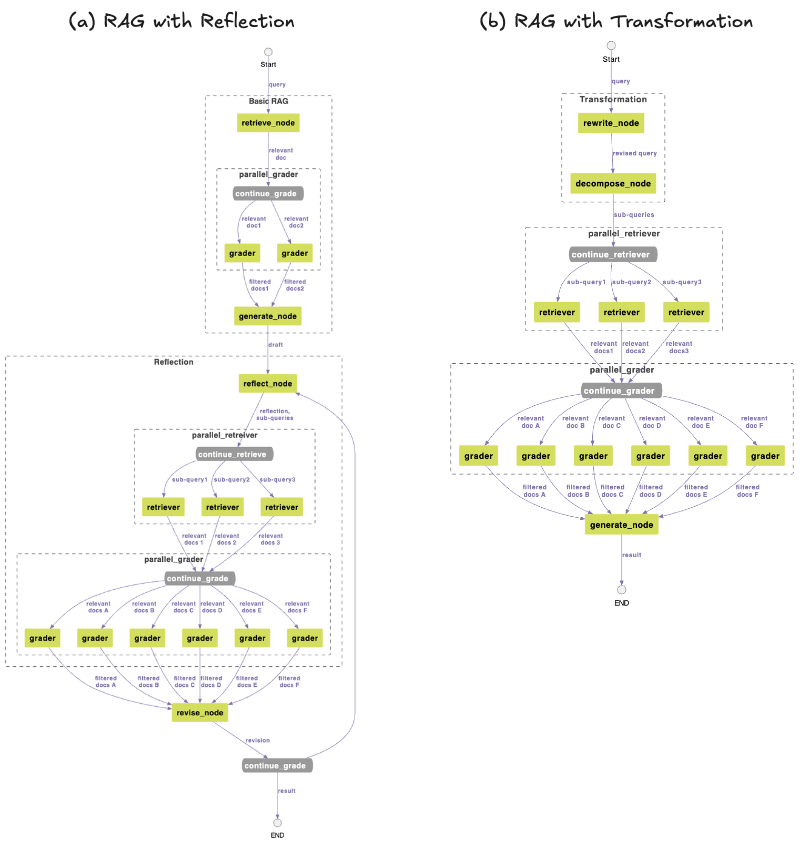
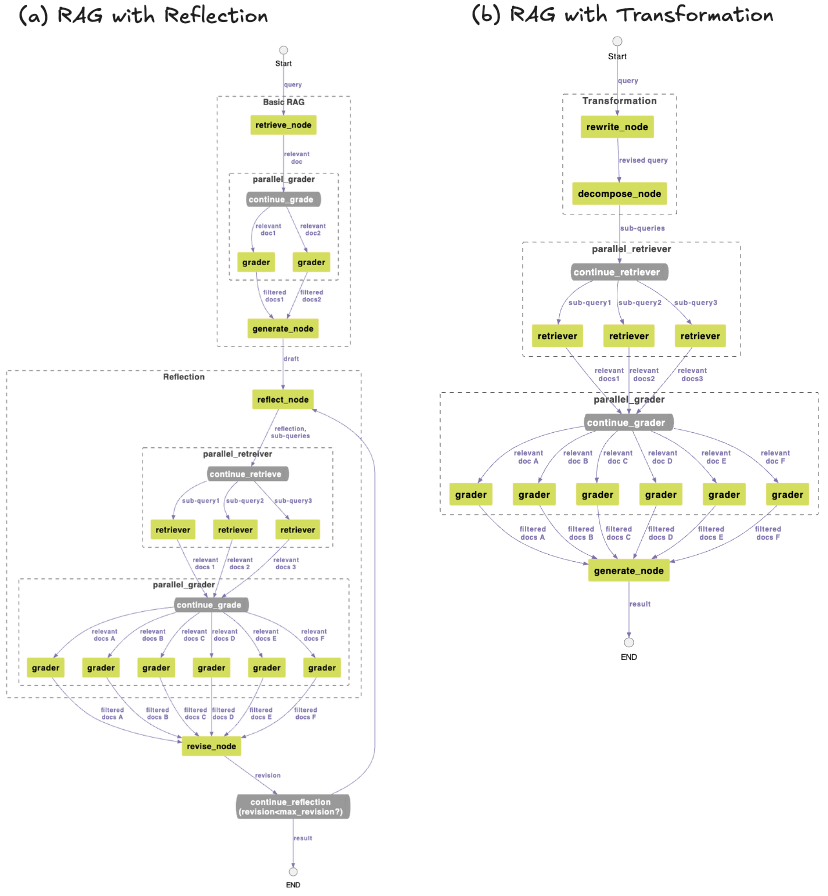
update

diff --git a/lambda-chat-ws/lambda_function.py b/lambda-chat-ws/lambda_function.py
@@ -608,41 +608,7 @@ def grade_document_based_on_relevance(conn, question, doc, models, selected):
         conn.send(None)
     
     conn.close()
-                                    
-def grade_documents_using_parallel_processing(question, documents):
-    global selected_chat
-    
-    filtered_docs = []    
-
-    processes = []
-    parent_connections = []
-    
-    for i, doc in enumerate(documents):
-        #print(f"grading doc[{i}]: {doc.page_content}")        
-        parent_conn, child_conn = Pipe()
-        parent_connections.append(parent_conn)
-            
-        process = Process(target=grade_document_based_on_relevance, args=(child_conn, question, doc, multi_region_models, selected_chat))
-        processes.append(process)
-
-        selected_chat = selected_chat + 1
-        if selected_chat == len(multi_region_models):
-            selected_chat = 0
-    for process in processes:
-        process.start()
-            
-    for parent_conn in parent_connections:
-        relevant_doc = parent_conn.recv()
-
-        if relevant_doc is not None:
-            filtered_docs.append(relevant_doc)
-
-    for process in processes:
-        process.join()
-    
-    #print('filtered_docs: ', filtered_docs)
-    return filtered_docs
-    
+                                        
 def print_doc(i, doc):
     if len(doc.page_content)>=100:
         text = doc.page_content[:100]
@@ -651,44 +617,7 @@ def print_doc(i, doc):
             
     print(f"{i}: {text}, metadata:{doc.metadata}")
     
-def grade_documents(question, documents):
-    print("###### grade_documents ######")
-    
-    filtered_docs = []
-    if multi_region == 'enable':  # parallel processing
-        print("start grading...")
-        filtered_docs = grade_documents_using_parallel_processing(question, documents)
-
-    else:
-        # Score each doc    
-        chat = get_chat()
-        retrieval_grader = get_retrieval_grader(chat)
-        for i, doc in enumerate(documents):
-            if len(doc):
-                print_doc(i, doc)
             
-            score = retrieval_grader.invoke({"question": question, "document": doc.page_content})
-            # print("score: ", score)
-            
-            grade = score.binary_score
-            # print("grade: ", grade)
-            # Document relevant
-            if grade.lower() == "yes":
-                print("---GRADE: DOCUMENT RELEVANT---")
-                filtered_docs.append(doc)
-            # Document not relevant
-            else:
-                print("---GRADE: DOCUMENT NOT RELEVANT---")
-                # We do not include the document in filtered_docs
-                # We set a flag to indicate that we want to run web search
-                continue
-            
-    global reference_docs 
-    reference_docs += filtered_docs    
-    # print('langth of reference_docs: ', len(reference_docs))
-    
-    # print('len(docments): ', len(filtered_docs))    
-    return filtered_docs
 
 class GradeDocuments(BaseModel):
     """Binary score for relevance check on retrieved documents."""
@@ -869,7 +798,8 @@ MAX_REVISIONS = 1
 class State(TypedDict):
     query: str
     draft: str
-    docs: List[str]
+    relevant_docs: List[str]
+    filtered_docs: List[str]
     reflection : List[str]
     sub_queries : List[str]
     revision_number: int
@@ -882,14 +812,53 @@ def retrieve_node(state: State):
     # print(f'q: {query}, RAG: {relevant_docs}')
     print(f'--> query: {query}, length: {len(relevant_docs)}')
     
-    filtered_docs = []
-    if len(relevant_docs):
-        filtered_docs = grade_documents(query, relevant_docs)
-    print('length of filtered_docs (retrieve_node): ', len(filtered_docs))
+    return {
+        "relevant_docs": relevant_docs
+    }
+    
+def parallel_grader(state: State):
+    print("###### parallel_grader ######")
+    query = state['query']
+    relevant_docs = state['relevant_docs']
+    
+    global selected_chat    
+    filtered_docs = []    
+
+    processes = []
+    parent_connections = []
+    
+    for i, doc in enumerate(relevant_docs):
+        #print(f"grading doc[{i}]: {doc.page_content}")        
+        parent_conn, child_conn = Pipe()
+        parent_connections.append(parent_conn)
+            
+        process = Process(target=grade_document_based_on_relevance, args=(child_conn, query, doc, multi_region_models, selected_chat))
+        processes.append(process)
+
+        selected_chat = selected_chat + 1
+        if selected_chat == len(multi_region_models):
+            selected_chat = 0
+    for process in processes:
+        process.start()
+            
+    for parent_conn in parent_connections:
+        relevant_doc = parent_conn.recv()
+
+        if relevant_doc is not None:
+            filtered_docs.append(relevant_doc)
+
+    for process in processes:
+        process.join()    
+    #print('filtered_docs: ', filtered_docs)
+
+    global reference_docs 
+    reference_docs += filtered_docs    
+    # print('langth of reference_docs: ', len(reference_docs))    
+    # print('len(docments): ', len(filtered_docs))    
     
     return {
-        "docs": filtered_docs
-    }
+        "filtered_docs": filtered_docs
+    }    
 
 class RetrieveState(TypedDict):
     sub_query: str
@@ -1232,9 +1201,12 @@ def buildRagWithReflection():
 
     # Add nodes
     workflow.add_node("retrieve_node", retrieve_node)
+    workflow.add_node("parallel_grader", parallel_grader)
     workflow.add_node("generate_node", generate_node)
-    workflow.add_node("reflect_node", reflect_node)
-    workflow.add_node("retrieve_sub_queries", retrieve_sub_queries)    
+    
+    workflow.add_node("reflect_node", reflect_node)    
+    workflow.add_node("parallel_retriever", parallel_retriever)    
+    workflow.add_node("parallel_grader_subqueries", parallel_grader)
     workflow.add_node("revise_node", revise_node)
 
     # Set entry point
